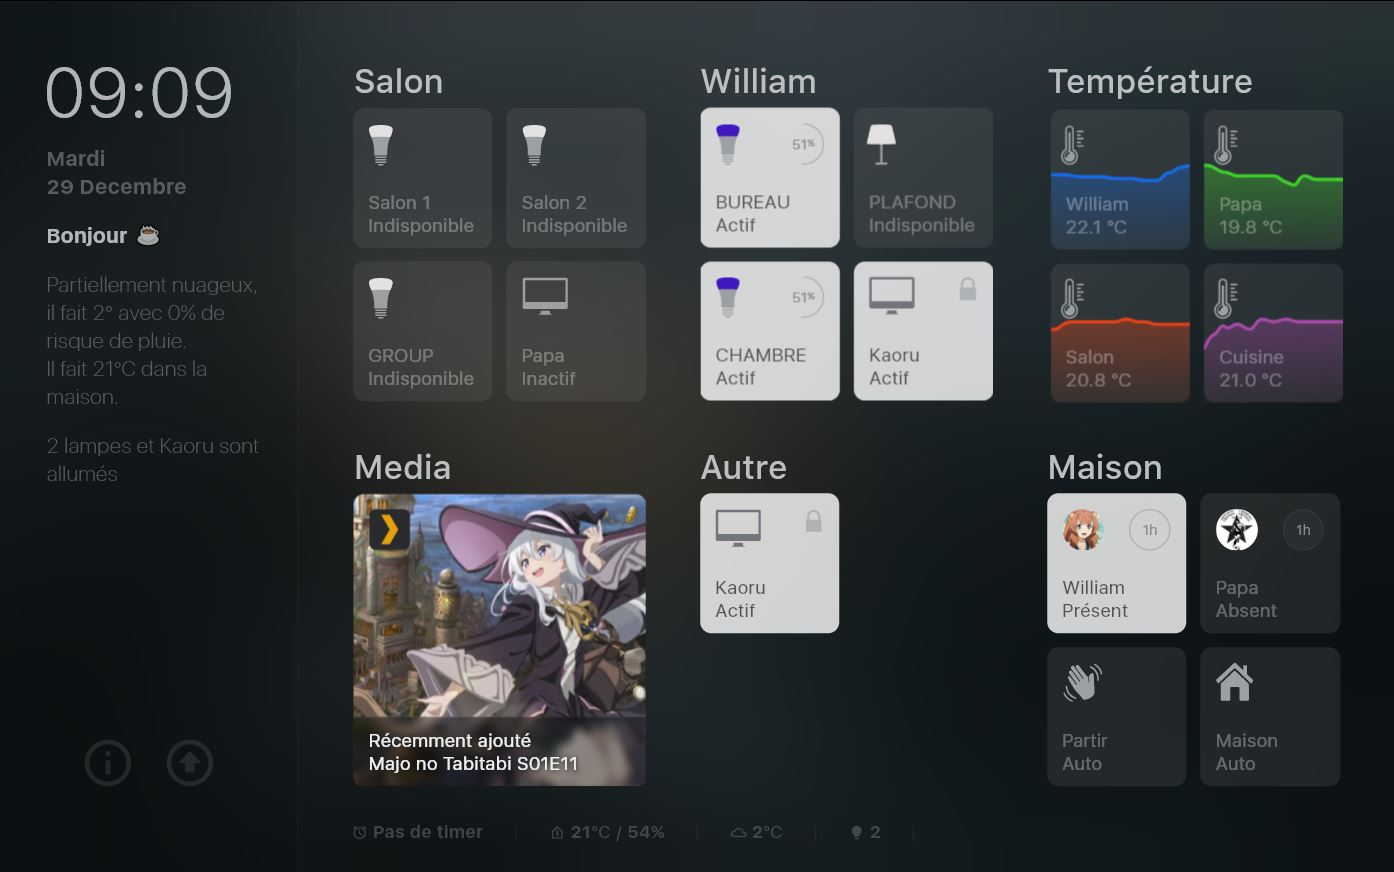
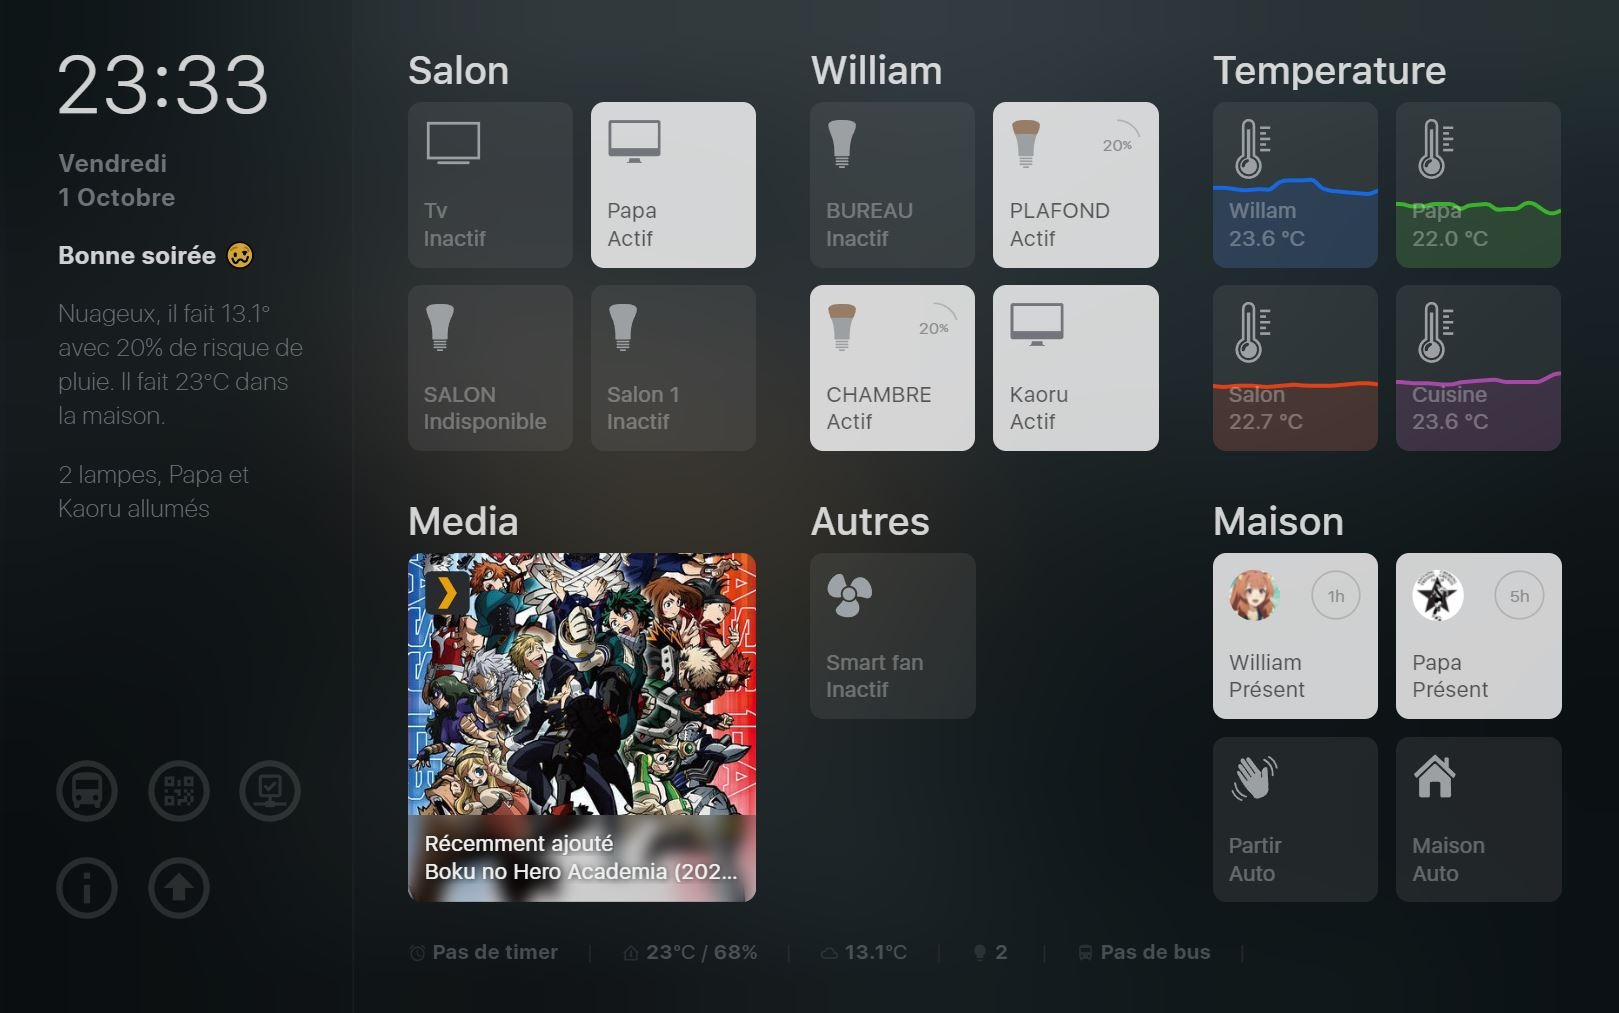
update README.md and images

diff --git a/README.md b/README.md
@@ -1,15 +1,15 @@
-# Home assistant configuration 
+# Home assistant configuration
 [![Demandez moi n'importe quoi !](https://img.shields.io/badge/Demandez%20moi-n'%20importe%20quoi-1abc9c.svg)](https://github.com/KaoruKanon/homeassistant-config) [![Maintenance](https://img.shields.io/badge/Maintained%3F-yes-green.svg)](https://GitHub.com/Naereen/StrapDown.js/graphs/commit-activity) [![Twitter](https://img.shields.io/twitter/follow/kaorussh?style=social)](https://twitter.com/kaorussh)   [![GitHub stars](https://img.shields.io/github/stars/KaoruKanon/homeassistant-config?style=social)](https://github.com/KaoruKanon/homeassistant-config)
 
 
 
 
-Bienvenue sur le repo github de ma configuration d'home assistant. Cette configuration est basée sur celle de matt8707 [ [github](https://github.com/matt8707/hass-config) / [forum anglais](https://community.home-assistant.io/t/a-different-take-on-designing-a-lovelace-ui/162594) ] 
+Bienvenue sur le repo github de ma configuration d'home assistant. Cette configuration est basée sur celle de matt8707 [ [github](https://github.com/matt8707/hass-config) / [forum anglais](https://community.home-assistant.io/t/a-different-take-on-designing-a-lovelace-ui/162594) ]
 
 Mon Home assistant tourne sous un raspberry pi 3B+, avec lequel j'utilise une tablette Lenovo wall mounted, avec un chageur magnétique. Tout comme matt87087, j'utilise [applicationize](https://applicationize.me/) pour créer une webapp sous chrome en mode kiosk.
 
-N'hésitez pas à mettre une ⭐ sur mon repo. 
-* [![Twitter](https://img.shields.io/twitter/follow/kaorussh?style=social)](https://twitter.com/kaorussh) 
+N'hésitez pas à mettre une ⭐ sur mon repo.
+* [![Twitter](https://img.shields.io/twitter/follow/kaorussh?style=social)](https://twitter.com/kaorussh)
 * [Profil HACF](https://forum.hacf.fr/u/kaoru)
 * [Topic de mon dashboard sur HACF](https://forum.hacf.fr/t/mon-dashboard-kaoru/1022)
 
@@ -17,24 +17,28 @@ N'hésitez pas à mettre une ⭐ sur mon repo.
 ![tablette-jour]
 
 
-
-## Equipement et configuration 
+## Equipement et configuration
 
 - HASS supervised tourne sur mon Raspberry 3B+
-- 6 ampoules yeelight
-- 5 Xiaomi mijia Temperature Humidity 2019
-- 3 Xiaomi Mi Wireless Switch
-- Xiaomi Gateway V2
-- tablette Lenovo TAB M10+ avec Fully Kiosk Browser 
 
-D'autres ampoules et boutons sans-fil devraient arriver d'ici quelques semaines pour terminer la domotisation des lumières 
+| Icon | Device | Total |
+|------|:--------------:|:------:|
+| 💻 | Gateway Xiaomi V2  | 1 |
+| 🖥 | Ordinateurs | 2 |
+| 🌡 | Xiaomi mijia Temperature Humidity 2019 | 5 |
+| 📱 | Smartphone | 2 |
+| 📱 | enovo TAB M10+ & Fully Kiosk Browser | 1 |
+| 💡 | Bulb E27 yeelight & yeelight strip | 7 |
+| 🔘 | Switch Xiaomi | 3 |
+| 📺 | Samsung TV | 1 |
+| ⚡ | Enedis | 1 |
 
+D'autres ampoules et boutons sans-fil devraient arriver d'ici quelques semaines pour terminer la domotisation des lumières
 
-
-## Les fonctionnalités créées par moi.
+## Les fonctionnalités créées par moi
 Je vous invite à consulter son repo github pour y voir les fonctionalités de bases proposées par son dashboard. J'ai créé de nouvelles fonctionallités pour répondre à mes besoins.
 
-### Card de mes thermomètre 
+### Card de mes thermomètre
 Card des thermomètre basé sur le design des boutons. Il affiche le graph de la température des 12 dernières heures. Le popup avec témpérature et humidité à l'instant T, avec un graphique des 48 dernières heures.
 
 ![thermometre]
@@ -47,24 +51,44 @@ Card des thermomètre basé sur le design des boutons. Il affiche le graph de la
 
 <img src="/images/spotify-popup.jpg" height="366">
 
-* Popup qui permet de contrôler le volume ou skip la musique sur les chromecast. 
+* Popup qui permet de contrôler le volume ou skip la musique sur les chromecast.
 
 <img src="/images/media-player-control.jpg" height="200">
 
-### Popup automation 
-Popup via le bouton Partir, qui permet via un switch de couper l'automation qui éteint les lumières quand nous sommes absents tous les deux. 
+### Popup automation
+Popup via le bouton Partir, qui permet via un switch de couper l'automation qui éteint les lumières quand nous sommes absents tous les deux.
 
 <img src="/images/automation-popup.jpg" height="200">
 
 ### Bouton et automation des snapshots.
-J'ai ajouté dans le popup information un bouton pour faire un snapshot manuelle depuis le dashboard. J'ai également mis en place une automation qui fait un snapshot tous les jours à miniuit. 
+J'ai ajouté dans le popup information un bouton pour faire un snapshot manuelle depuis le dashboard. J'ai également mis en place une automation qui fait un snapshot tous les jours à miniuit.
 
 <img src="/images/bouton-snapshot.jpg" height="300">
 
 ### Afficher le timer en cours du google home de la cuisne
-J'utilise le travail de [chvancooten](https://github.com/chvancooten/homeassistant-googletokenretriever) pour récupérer le miniteur du google home et l'afficher en bas. 
+J'utilise le travail de [chvancooten](https://github.com/chvancooten/homeassistant-googletokenretriever) pour récupérer le miniteur du google home et l'afficher en bas.
 
 <img src="/images/google-timer.jpg" height="50"> <img src="/images/google-timer-no-timer.jpg" height="50">
+
+### Monitoring des batteries, services, systèmes et réseaux
+
+<img src="/images/monitoring-battery-service.jpg" height="300">
+
+### Monitoring de la bbox
+
+La platerform [bbox](https://www.home-assistant.io/integrations/bbox/) officiel de home assistant ne fonctionne pas correctement. J'ai créé un script python qui utilise l'API d'HA et [ppybox](https://github.com/HydrelioxGitHub/pybbox). J'ai modifié ce dernier pour le débugger mais également créer de nouvelles méthodes pour mon utilisation.  
+<img src="/images/bbox-monitoring.jpg" height="300">
+
+### Horaire des prochains bus
+
+J'ai implémenté les horaires de bus d'Ilévia via l'[API officiel de la Métropole Européenne de Lille](https://opendata.lillemetropole.fr/explore/dataset/ilevia-prochainspassages/information/?flg=fr)  
+<img src="/images/bus.jpg" height="300">
+
+### QR-CODE du WiFi
+
+Pour facilité l'utilisation du WiFi chez moi, j'ai mis en place un popup contenant le QR code WiFi qui n'a besoin d'être scanné mais aussi le code et le SSID en clair pour le faire manuellement.
+
+<img src="/images/wifi-qrcode.jpg" height="300">
 
 ## Ma façon d'implémenter son code
 L'auteur est suédois et nous n'avons pas les mêmes équipements.
@@ -73,33 +97,28 @@ L'auteur est suédois et nous n'avons pas les mêmes équipements.
 
 Pour la consommation électrique, j'utilise le custom component [myEnedis](https://github.com/saniho/apiEnedis). L'auteur utilise un script python qui va chercher sa consommation chez son fourniseur et rempli un fichier dont le contenu est lu par home assistant. La consommation de chaque mois est découpé par un capteur. Il y a donc 12 capteurs utilisés utilisé par son popup consomation. Pour garder sa base, j'ai créé un script python qui garde le même principe, mais récupère la consomation du sensor myEnedis avec l'api de Home assistant. Je sais dit comme ça, c'est un peu particulier.
 
-Home Assistant lance le script toutes les heures via une automation. 
+Home Assistant lance le script toutes les heures via une automation.
 
-### Météo 
+### Météo
 
-Météo avec l'api MétéoFrance et son intégration officiel. 
+Météo avec l'api MétéoFrance et son intégration officiel.
 
 ### Monitoring des PC
 
-Utilisation de [IOT Link](https://iotlink.gitlab.io/) pour contrôler les PC sous Windows car matt8707 est sous mac et utilise du SSH. 
+Utilisation de [IOT Link](https://iotlink.gitlab.io/) pour contrôler les PC sous Windows car matt8707 est sous mac et utilise du SSH.
 
 ## TODO et idées..
 
 ### Implémentations restantes à finir
-* Terminer le popup consomation électrique (calculer coût et bouton pour lancer manuellement le rafraichissement de la consomation electrique).
-* Ajouter la tv samsung.
-* Find my phone rencontre des problèmes.
+* ...
 
 
 ### Problèmes
-* Téléphone connecté ou non au wifi de la maison avec le popup de la personne dans la section Maison.
 * Notifications de mise à jour de HASS, etc...
 * Améliorer la carte thermomètre : En cas de forte différence de température entre le minimum et le maximum, la courbe est coupée par la card.
 
 ### Idées
-* Batterie des capteurs et ping des équipements réseaux.
-* QR code pour le Wifi.
-* Version mobile.
+* ...
 * Prise en charge par le dashboard de futures caméras.
 
 
@@ -108,11 +127,11 @@ Utilisation de [IOT Link](https://iotlink.gitlab.io/) pour contrôler les PC sou
 [dashboard]: /images/dashboard.jpg
 [media-player-control]: /images/media-player-control.jpg
 [spotify-active]: /images/spotify-active.jpg
-[spotify-card]: /images/spotify-card.jpg 
+[spotify-card]: /images/spotify-card.jpg
 [spotify-popup]: /images/spotify-popup.jpg
 [tablette-jour]: /images/tablette-jour.jpg
 [tablette-nuit]: /images/tablette-nuit.jpg
 [thermometre-popup]: /images/thermometre-popup.jpg
 [thermometre]: /images/thermometre.gif
-[automation-popup]: /images/automation-popup.jpg 
+[automation-popup]: /images/automation-popup.jpg
 [bouton-snapshot]: images/bouton-snapshot.jpg
